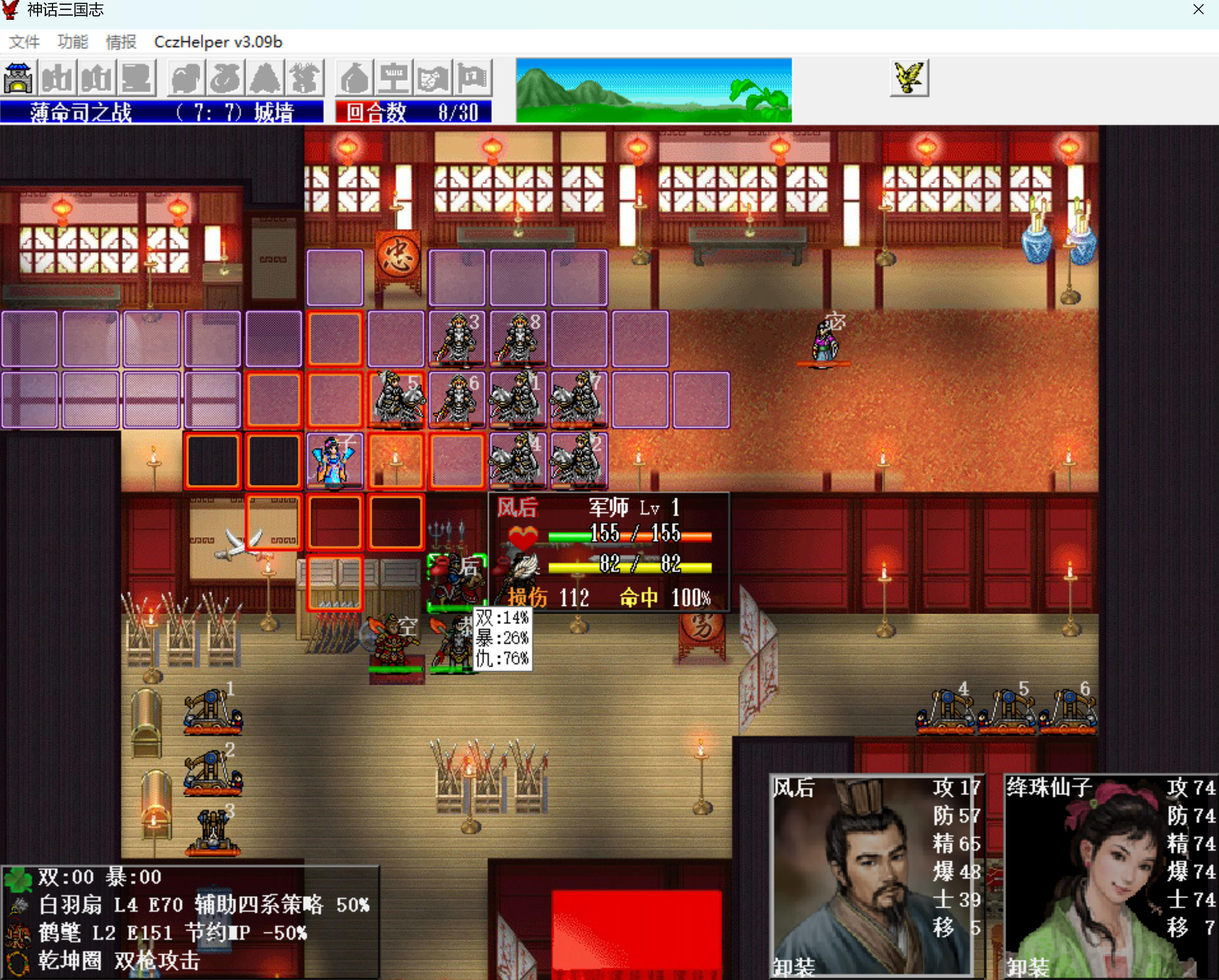
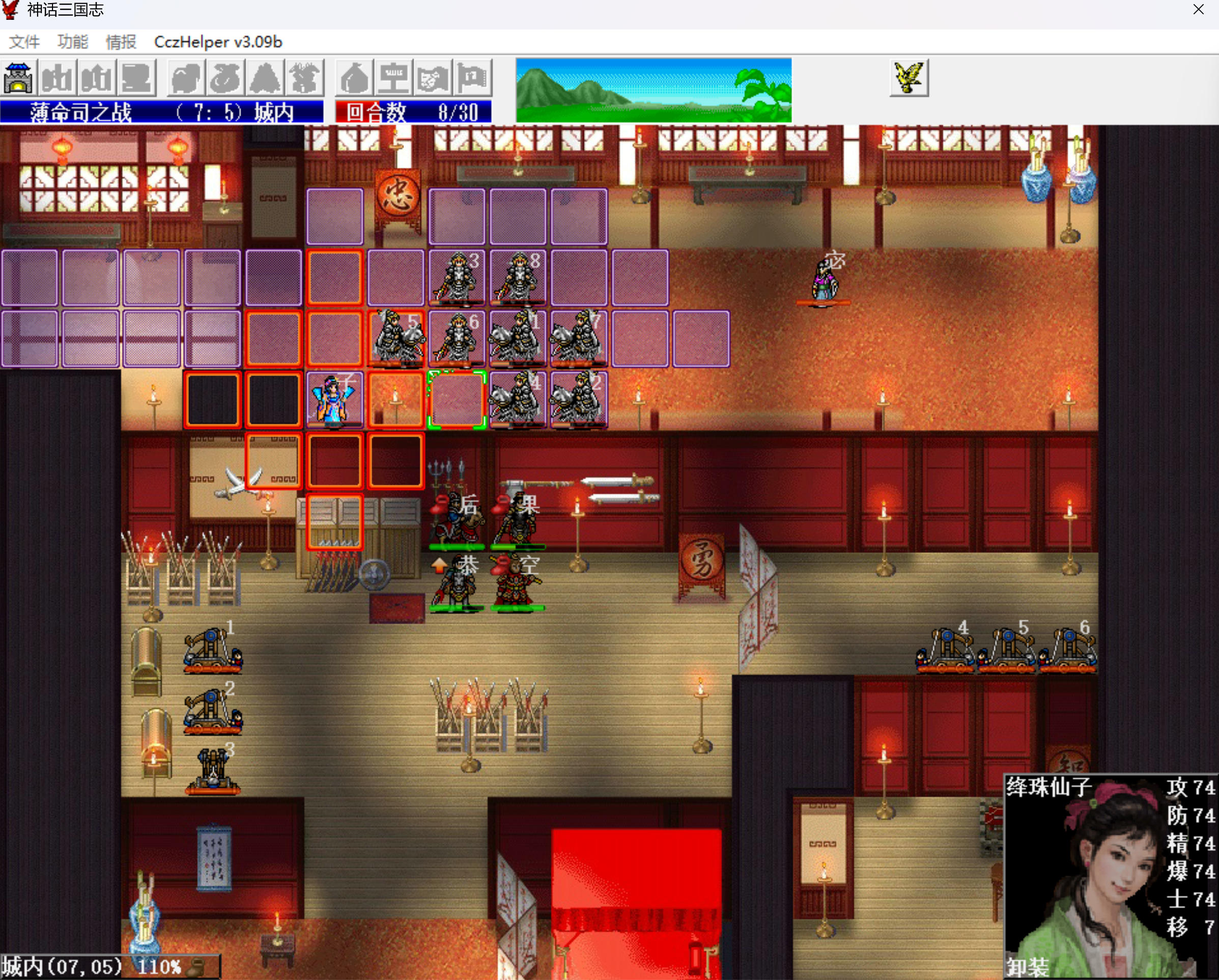
update

diff --git a/posts/16-薄命司之战.md b/posts/16-薄命司之战.md
@@ -6,31 +6,34 @@ S16 薄命司之战
 
 本关只有1个自选武将，依然出高长恭，刷特技加属性。
 
-风后本关挑6级警幻仙子得32+8\*5=72点经验，下次单挑要到肥水，且秦皇陵要升到11级，所以本关可适当得些经验，不升级即可。
+风后本关挑6级警幻得32+8\*5=72点经验，下次单挑要到肥水，且秦皇陵要升到11级，所以本关可适当得些经验，不升级即可。
 
 本关友军依然是3个猴毛，打第二阵时猴哥可以召唤，所以难点在第一阵，只有高长恭、风后俩人能出手。第一阵共10个敌军：
 
-- 6级绛珠仙子（9级倚天、紫绶，196HP）。
+- 6级绛珠（9级倚天、紫绶，196HP）。
 - 8个红颜军（2个5级250HP、6个6级256HP，9级黄金甲），出场回合的敌军阶段攻防+100。
 - 1级甄宓（9级倚天、紫绶），坚守原地。
 
 复数攻击打包收人头的方式：
 
-- 高长恭带丈八，一次可以打三个，但既打不中绛珠仙子和甄宓（攻击防御90%），也打不动红颜军（9级黄金甲再加100防）。
+- 高长恭带丈八，一次可以打三个，但既打不中绛珠和甄宓（攻击防御90%），也打不动红颜军（9级黄金甲再加100防）。
 - 风后带玄女兵书，火龙一次可以打九个。
 
-因此只能是高长恭带破甲刀，对绛珠仙子、红颜军打上两刀（共出手17次，黄金甲不吃双击），并把他们排成九宫，风后一个火龙全部带走。但是，绛珠仙子、红颜军都会吸血！
+因此只能是高长恭带破甲刀，对绛珠、红颜军打上两刀（共出手17次，黄金甲不吃双击），并把他们排成九宫，风后一个火龙全部带走。但是，绛珠、红颜军都会吸血！
 
 <div align="center">
 
 |     敌军      |        MP        |   HP    | 破甲两刀后HP | 吸血伤害 | 风后火龙极限伤害 | 允许吸血成功次数 |
 | :-----------: | :--------------: | :-----: | :----------: | :------: | :--------------: | :--------------: |
-|  6级绛珠仙子  |  26，可吸3次血   |   196   |      40      |    25    |        81        |       1次        |
+|    6级绛珠    |  26，可吸3次血   |   196   |      40      |    20    |        81        |       1次        |
 | 5级/6级红颜军 | 20/22，可吸2次血 | 250/256 |    50/52     |  36/38   |        96        |       1次        |
 
 </div>
 
-如果绛珠仙子、红颜军吸血成功次数超过1次，高长恭就要出手更多次，得更多的经验。
+允许的吸血成功次数，否则高长恭就要出手更多次，得更多的经验：
+
+- 绛珠吸血成功次数<=2次，且2次加起来伤害<=45。
+- 红颜军吸血成功次数<=1次。
 
 开场：
 
@@ -50,39 +53,42 @@ S16 薄命司之战
     <img src="../images/16/02.jpg" width=49%/>
 </div>
 
-敌军阶段，绛珠仙子和4个红颜军来打高长恭，被破甲反击。绛珠仙子、红颜军在满血或普攻能打出高伤害时，是不会吸血的。
+敌军阶段，绛珠和1、2、3、4号红颜军普攻高长恭，被破甲反击。绛珠、红颜军在满血或普攻能打出高伤害时，是不会吸血的。
 
 <div align="center">
 
-|     敌军     | 绛珠仙子 | 1号 | 2号 | 3号 | 4号 | 5号 | 6号 | 7号 | 8号 |
-| :----------: | :------: | :-: | :-: | :-: | :-: | :-: | :-: | :-: | :-: |
-|  被破甲次数  |    2     |  1  |  1  |  1  |  1  |  0  |  0  |  0  |  0  |
-|  可吸血次数  |    3     |  2  |  2  |  2  |  2  |  2  |  2  |  2  |  2  |
-| 吸血成功次数 |    0     |  0  |  0  |  0  |  0  |  0  |  0  |  0  |  0  |
+|     敌军     | 绛珠 | 1号 | 2号 | 3号 | 4号 | 5号 | 6号 | 7号 | 8号 |
+| :----------: | :--: | :-: | :-: | :-: | :-: | :-: | :-: | :-: | :-: |
+|  被破甲次数  |  2   |  1  |  1  |  1  |  1  |  0  |  0  |  0  |  0  |
+|  可吸血次数  |  3   |  2  |  2  |  2  |  2  |  2  |  2  |  2  |  2  |
+| 吸血成功次数 |  0   |  0  |  0  |  0  |  0  |  0  |  0  |  0  |  0  |
 
 </div>
 
-第5回合，主角把太极图换给高长恭（已双枪反击过绛珠仙子，暂时不再需要双枪了）。
+第5回合，主角把太极图换给高长恭，保持绝对自由的移动，而且已双枪反击过绛珠，暂时不再需要双枪了。
 
-要想一个火龙恰好收掉绛珠仙子和8个红颜军，必须保持红颜军同步掉血蓝，不能有的已经喘气没蓝了，有的还满血满蓝。
+要想1个火龙恰好收掉绛珠和8个红颜军，必须保持红颜军同步掉血蓝，不能有的已经喘气没蓝了，有的还满血满蓝。
 
-高长恭出特技，右移给自己吃豆，把6、7、8号红颜军也拉过来，赚反击。
+高长恭被打残出特技，右移给自己吃豆，把6、7、8号红颜军也拉过来，赚破甲反击。
 
-另外三人没啥生存压力，掉血了不要急于吃豆。
+另外3人没啥生存压力，掉血了不要急于吃豆。
 
 <div align="center">
     <img src="../images/16/03.jpg" width=49%/>
     <img src="../images/16/04.jpg" width=49%/>
 </div>
 
-敌军阶段，绛珠仙子和1个红颜军吸血成功，另外3个红颜军吸血失败。
+敌军阶段，绛珠和2号红颜军吸血成功，1、3、4号红颜军吸血失败。
+
+6、7、8号红颜军普攻高长恭，被破甲反击。5号红颜军去打主角。
 
 <div align="center">
 
-|    敌军    | 绛珠仙子 | 1号红颜军 | 2号红颜军 | 3号红颜军 | 4号红颜军 | 5号红颜军 | 6号红颜军 | 7号红颜军 | 8号红颜军 |
-| :--------: | :------: | :-------: | :-------: | :-------: | :-------: | :-------: | :-------: | :-------: | :-------: |
-| 被破甲次数 |    2     |     1     |     1     |     1     |     1     |     0     |     1     |     1     |     1     |
-| 可吸血次数 |    2     |     1     |     1     |     1     |     1     |     2     |     2     |     2     |     2     |
+|     敌军     | 绛珠 | 1号 | 2号 | 3号 | 4号 | 5号 | 6号 | 7号 | 8号 |
+| :----------: | :--: | :-: | :-: | :-: | :-: | :-: | :-: | :-: | :-: |
+|  被破甲次数  |  2   |  1  |  1  |  1  |  1  |  0  |  1  |  1  |  1  |
+|  可吸血次数  |  2   |  1  |  1  |  1  |  1  |  2  |  2  |  2  |  2  |
+| 吸血成功次数 |  1   |  0  |  1  |  0  |  0  |  0  |  0  |  0  |  0  |
 
 </div>
 
@@ -93,62 +99,169 @@ S16 薄命司之战
     <img src="../images/16/06.jpg" width=49%/>
 </div>
 
-敌军阶段，绛珠仙子和红颜军继续对着高长恭输出，sl注意三点：
+敌军阶段，绛珠和除5、8号外的红颜军都对高长恭吸血，注意：
 
-1. 绛珠仙子和上回合吸血成功的红颜军不能再吸血成功。
-2. 上回合吸血失败的红颜军这回合无所谓成不成功了，但别把高长恭吸死了。
-3. 之前没吸过血的尽量不要吸血成功。
+- 绛珠和上回合吸血成功的2号红颜军不能再吸血成功。
+- 上回合吸血失败的1、3、4号红颜军这回合成不成功无所谓，只要别把高长恭吸死就行。
+- 之前没吸过血5、6、7、8号红颜军尽量不要吸血成功。
+
+实际5号红颜军继续打主角，1、4、6号红颜军吸血成功，其他失败，8号红颜军最后一个行动时发现吸不死高长恭，改普攻了。
 
 <div align="center">
 
-|    敌军    | 绛珠仙子 | 1号红颜军 | 2号红颜军 | 3号红颜军 | 4号红颜军 | 5号红颜军 | 6号红颜军 | 7号红颜军 | 8号红颜军 |
-| :--------: | :------: | :-------: | :-------: | :-------: | :-------: | :-------: | :-------: | :-------: | :-------: |
-| 被破甲次数 |    2     |     1     |     1     |     1     |     1     |     0     |     1     |     1     |     2     |
-| 可吸血次数 |    2     |     1     |     1     |     1     |     1     |     2     |     2     |     2     |     2     |
+|     敌军     | 绛珠 | 1号 | 2号 | 3号 | 4号 | 5号 | 6号 | 7号 | 8号 |
+| :----------: | :--: | :-: | :-: | :-: | :-: | :-: | :-: | :-: | :-: |
+|  被破甲次数  |  2   |  1  |  1  |  1  |  1  |  0  |  1  |  1  |  2  |
+|  可吸血次数  |  1   |  0  |  0  |  0  |  0  |  2  |  1  |  1  |  2  |
+| 吸血成功次数 |  1   |  1  |  1  |  0  |  1  |  0  |  1  |  0  |  0  |
 
 </div>
 
-第7回合，高长恭左移攻击主角上面2格满血满蓝的红颜军，主角给高长恭吃豆。
-
-此时8号红颜军被破甲两刀，但她满蓝，还可以放吸血，其它7个红颜军都被破甲一刀。
+第7回合，高长恭左移攻击满血满蓝的5号红颜军，主角给高长恭吃豆。
 
 <div align="center">
     <img src="../images/16/07.jpg" width=49%/>
     <img src="../images/16/08.jpg" width=49%/>
 </div>
 
-敌军阶段，绛珠仙子来打不会反击的主角。
+敌军阶段，绛珠来打不会反击的主角。
 
-4个已经放不出吸血的红颜军被破甲反击，进入待火龙秒的状态。8号红颜军吸血失败，也进入待火龙秒的状态（还能再放一次吸血）。
+1\~4号红颜军已放不出吸血，普攻高长恭，被破甲反击，5号红颜军被拉围攻。
 
-第8回合，5、6、7号红颜军没进入待火龙秒状态（5号还能放2次吸血）。绛珠仙子和5号红颜军没在九宫位置中。
+6、8号红颜军吸血失败，7号红颜军吸血成功。
 
-高长恭穿越下来，把太极图给风后，风后右移一格把绛珠仙子拉过来，同时把太极图给主角，主角也穿越下来。
+<div align="center">
+
+|     敌军     | 绛珠 | 1号 | 2号 | 3号 | 4号 | 5号 | 6号 | 7号 | 8号 |
+| :----------: | :--: | :-: | :-: | :-: | :-: | :-: | :-: | :-: | :-: |
+|  被破甲次数  |  2   |  2  |  2  |  2  |  2  |  1  |  1  |  1  |  2  |
+|  可吸血次数  |  1   |  0  |  0  |  0  |  0  |  2  |  0  |  0  |  1  |
+| 吸血成功次数 |  1   |  1  |  1  |  0  |  1  |  0  |  1  |  1  |  0  |
+
+</div>
+
+第8回合，绛珠和5号红颜军的位置还不对，需把她们拉进九宫中。
+
+高长恭穿越下来，把太极图给风后，风后右移一格把绛珠拉过来，同时把太极图给主角，主角也穿越下来。
 
 <div align="center">
     <img src="../images/16/09.jpg" width=49%/>
     <img src="../images/16/10.jpg" width=49%/>
 </div>
 
-敌军阶段，绛珠仙子来打风后。
+敌军阶段，绛珠普攻风后。
 
 第9回合，主角、风后、高长恭交换太极图调整位置。
 
 风后进入放火龙的位置，之后就不动了。
 
-高长恭去赚7号红颜军的反击，同时把5号红颜军拉到最后一个九宫位置放吸血（有时候会去7号红颜军右边，sl下）。
-
-主角去帮高长恭扛刀子，否则2号红颜军打高长恭就被反击死了。
+高长恭去赚7号红颜军的反击，主角去帮高长恭扛刀子，否则2号红颜军普攻高长恭就被反击死了。
 
 <div align="center">
     <img src="../images/16/11.jpg" width=49%/>
     <img src="../images/16/12.jpg" width=49%/>
 </div>
 
-敌军阶段，
+敌军阶段，敌军普攻如箭头所示，主角用残血吸引绛珠普攻，她就只能待在原地，否则吸血高长恭的话，她可能会乱跑。8号红颜军右移一格吸血高长恭成功，5号红颜军吸血高长恭失败。7号红颜军普攻高长恭被破甲反击。
+
+<div align="center">
+
+|     敌军     | 绛珠 | 1号 | 2号 | 3号 | 4号 | 5号 | 6号 | 7号 | 8号 |
+| :----------: | :--: | :-: | :-: | :-: | :-: | :-: | :-: | :-: | :-: |
+|  被破甲次数  |  2   |  2  |  2  |  2  |  2  |  1  |  1  |  2  |  2  |
+|  可吸血次数  |  1   |  0  |  0  |  0  |  0  |  1  |  0  |  0  |  0  |
+| 吸血成功次数 |  1   |  1  |  1  |  0  |  1  |  0  |  1  |  1  |  1  |
+
+</div>
+
+第10回合，5号红颜军还能放一次吸血，为让她进入九宫，高长恭退下来。风后吃智力果，加精神力buff。
+
+<div align="center">
+    <img src="../images/16/13.jpg" width=49%/>
+    <img src="../images/16/14.jpg" width=49%/>
+</div>
+
+敌军阶段，5号红颜军到1号红颜军上方1格吸血主角失败，至此敌军已呈九宫站位。
+
+<div align="center">
+
+|     敌军     | 绛珠 | 1号 | 2号 | 3号 | 4号 | 5号 | 6号 | 7号 | 8号 |
+| :----------: | :--: | :-: | :-: | :-: | :-: | :-: | :-: | :-: | :-: |
+|  被破甲次数  |  2   |  2  |  2  |  2  |  2  |  1  |  1  |  2  |  2  |
+|  可吸血次数  |  1   |  0  |  0  |  0  |  0  |  0  |  0  |  0  |  0  |
+| 吸血成功次数 |  1   |  1  |  1  |  0  |  1  |  0  |  1  |  1  |  1  |
+
+</div>
+
+第11回合，如法炮制，高长恭上来赚6号红颜军的反击。
+
+敌军阶段，绛珠拉2号红颜军围攻主角，1号红颜军普攻主角，4号红颜军普攻风后。6号红颜军普攻高长恭被破甲反击。
+
+<div align="center">
+
+|     敌军     | 绛珠 | 1号 | 2号 | 3号 | 4号 | 5号 | 6号 | 7号 | 8号 |
+| :----------: | :--: | :-: | :-: | :-: | :-: | :-: | :-: | :-: | :-: |
+|  被破甲次数  |  2   |  2  |  2  |  2  |  2  |  1  |  2  |  2  |  2  |
+|  可吸血次数  |  1   |  0  |  0  |  0  |  0  |  0  |  0  |  0  |  0  |
+| 吸血成功次数 |  1   |  1  |  1  |  0  |  1  |  0  |  1  |  1  |  1  |
+
+</div>
+
+第12回合，一切就绪。高长恭上去攻击5号红颜军，猴哥把7级无缝、玄女兵书换给风后，风后火龙秒9个。
+
+<div align="center">
+    <img src="../images/16/15.jpg" width=32.8%/>
+    <img src="../images/16/16.jpg" width=32.8%/>
+    <img src="../images/16/17.jpg" width=32.8%/>
+</div>
+
+第13回合，高长恭把太极图换给主角得到乾坤圈，主角去右下踩3个城池。
+
+第17回合，3个城池全部踩完，高长恭双击秒掉甄宓（需sl其中一刀暴击，9%的概率），警幻、妲己、褒姒带狐妖出现，妲己被主角挤到城池外面。主角借太极图离开。
+
+<div align="center">
+    <img src="../images/16/18.jpg" width=49%/>
+    <img src="../images/16/19.jpg" width=49%/>
+</div>
+
+敌军阶段，褒姒大招，右下第二阵不分敌我HP-50。妲己大招，我军混乱、防御debuff。
+
+敌军狐妖全部原地待命（可移动范围搜索不到主角？）
+
+之后主角上来，和风后、猴哥相互交换太极图，爬上墙。
+
+第21回合，狐妖还剩5HP，敌军阶段会被褒姒全灭，而警幻、妲己、褒姒是原地站桩的，没啥威胁。所以主角、风后、猴哥爬墙过来，猴哥最后一个动，借太极图进阵，招出猴毛，猴毛下来秒掉3个炮车。
+
+<div align="center">
+    <img src="../images/16/20.jpg" width=49%/>
+    <img src="../images/16/21.jpg" width=49%/>
+</div>
+
+第22回合，sl猴毛、风后最多被混乱两个（主角、猴哥能用醒脑丸解），一个猴毛手榴弹击退妲己，另外两个猴毛手榴弹砸褒姒。
+
+第23回合，猴毛再扔三个手榴弹击退褒姒，风后挑掉警幻（鹤氅、玄女兵书）。
+
+<div align="center">
+    <img src="../images/16/22.jpg" width=49%/>
+    <img src="../images/16/23.jpg" width=49%/>
+</div>
+
+侍女猴毛扔两个手榴弹解决，炮车猴毛一下一个。
+
+第27回合，主角进入第三阵，猴哥挑掉元始天尊（金箍棒、无缝、乾坤圈）。
+
+獒犬猴毛扔三个手榴弹解决。
+
+第30回合，击退最后一个敌军过关。如果进第四阵引出穆桂英、白素贞，猴毛要多扔10个手榴弹（1w钱），换经验书多练10回合装备，并不赚，所以放弃。
+
+<div align="center">
+    <img src="../images/16/24.jpg" width=49%/>
+    <img src="../images/16/25.jpg" width=49%/>
+</div>
 
 本关：
 
-- 高长恭击退第一阵的全部敌军升到5级104
-- 2级猴哥单挑6级元始得46点经验
-- 1级风后三水秒6级警幻得72点经验
+- 猴哥：手动单挑6级元始得38+2\*4=46点经验，2.20 => 2.66。
+- 风后：火龙秒6级红颜军得32+8\*5=72点经验，手动单挑6级警幻得32+8\*5=72点经验，1.0 => 1.144。
+- 高长恭：击退第一阵的全部敌军升到5级104
+

diff --git a/posts/15-魔火金光阵.md b/posts/15-魔火金光阵.md
@@ -79,6 +79,6 @@ S15 魔火金光阵
 - 1级猴哥手动单挑11级风后得38+2\*10=58点经验，1.112 => 2.20，以战魔的属性成长升级。
 - 1级裴元庆剧情单挑1级哪吒得32点经验，1.0 => 1.32。
 - 1级武松反击1级大都督得6点经验，1.90 => 1.96。
-- 白羽扇：3.0 => 3.190。
-- 方天：4.140 => 5.130。
+- 白羽扇：3.0 => 3.190，19回合经验书。
+- 方天：4.140 => 5.130，19回合经验书。
 - 双股剑：2.6 => 2.12，武松拿双枪反击一次。
